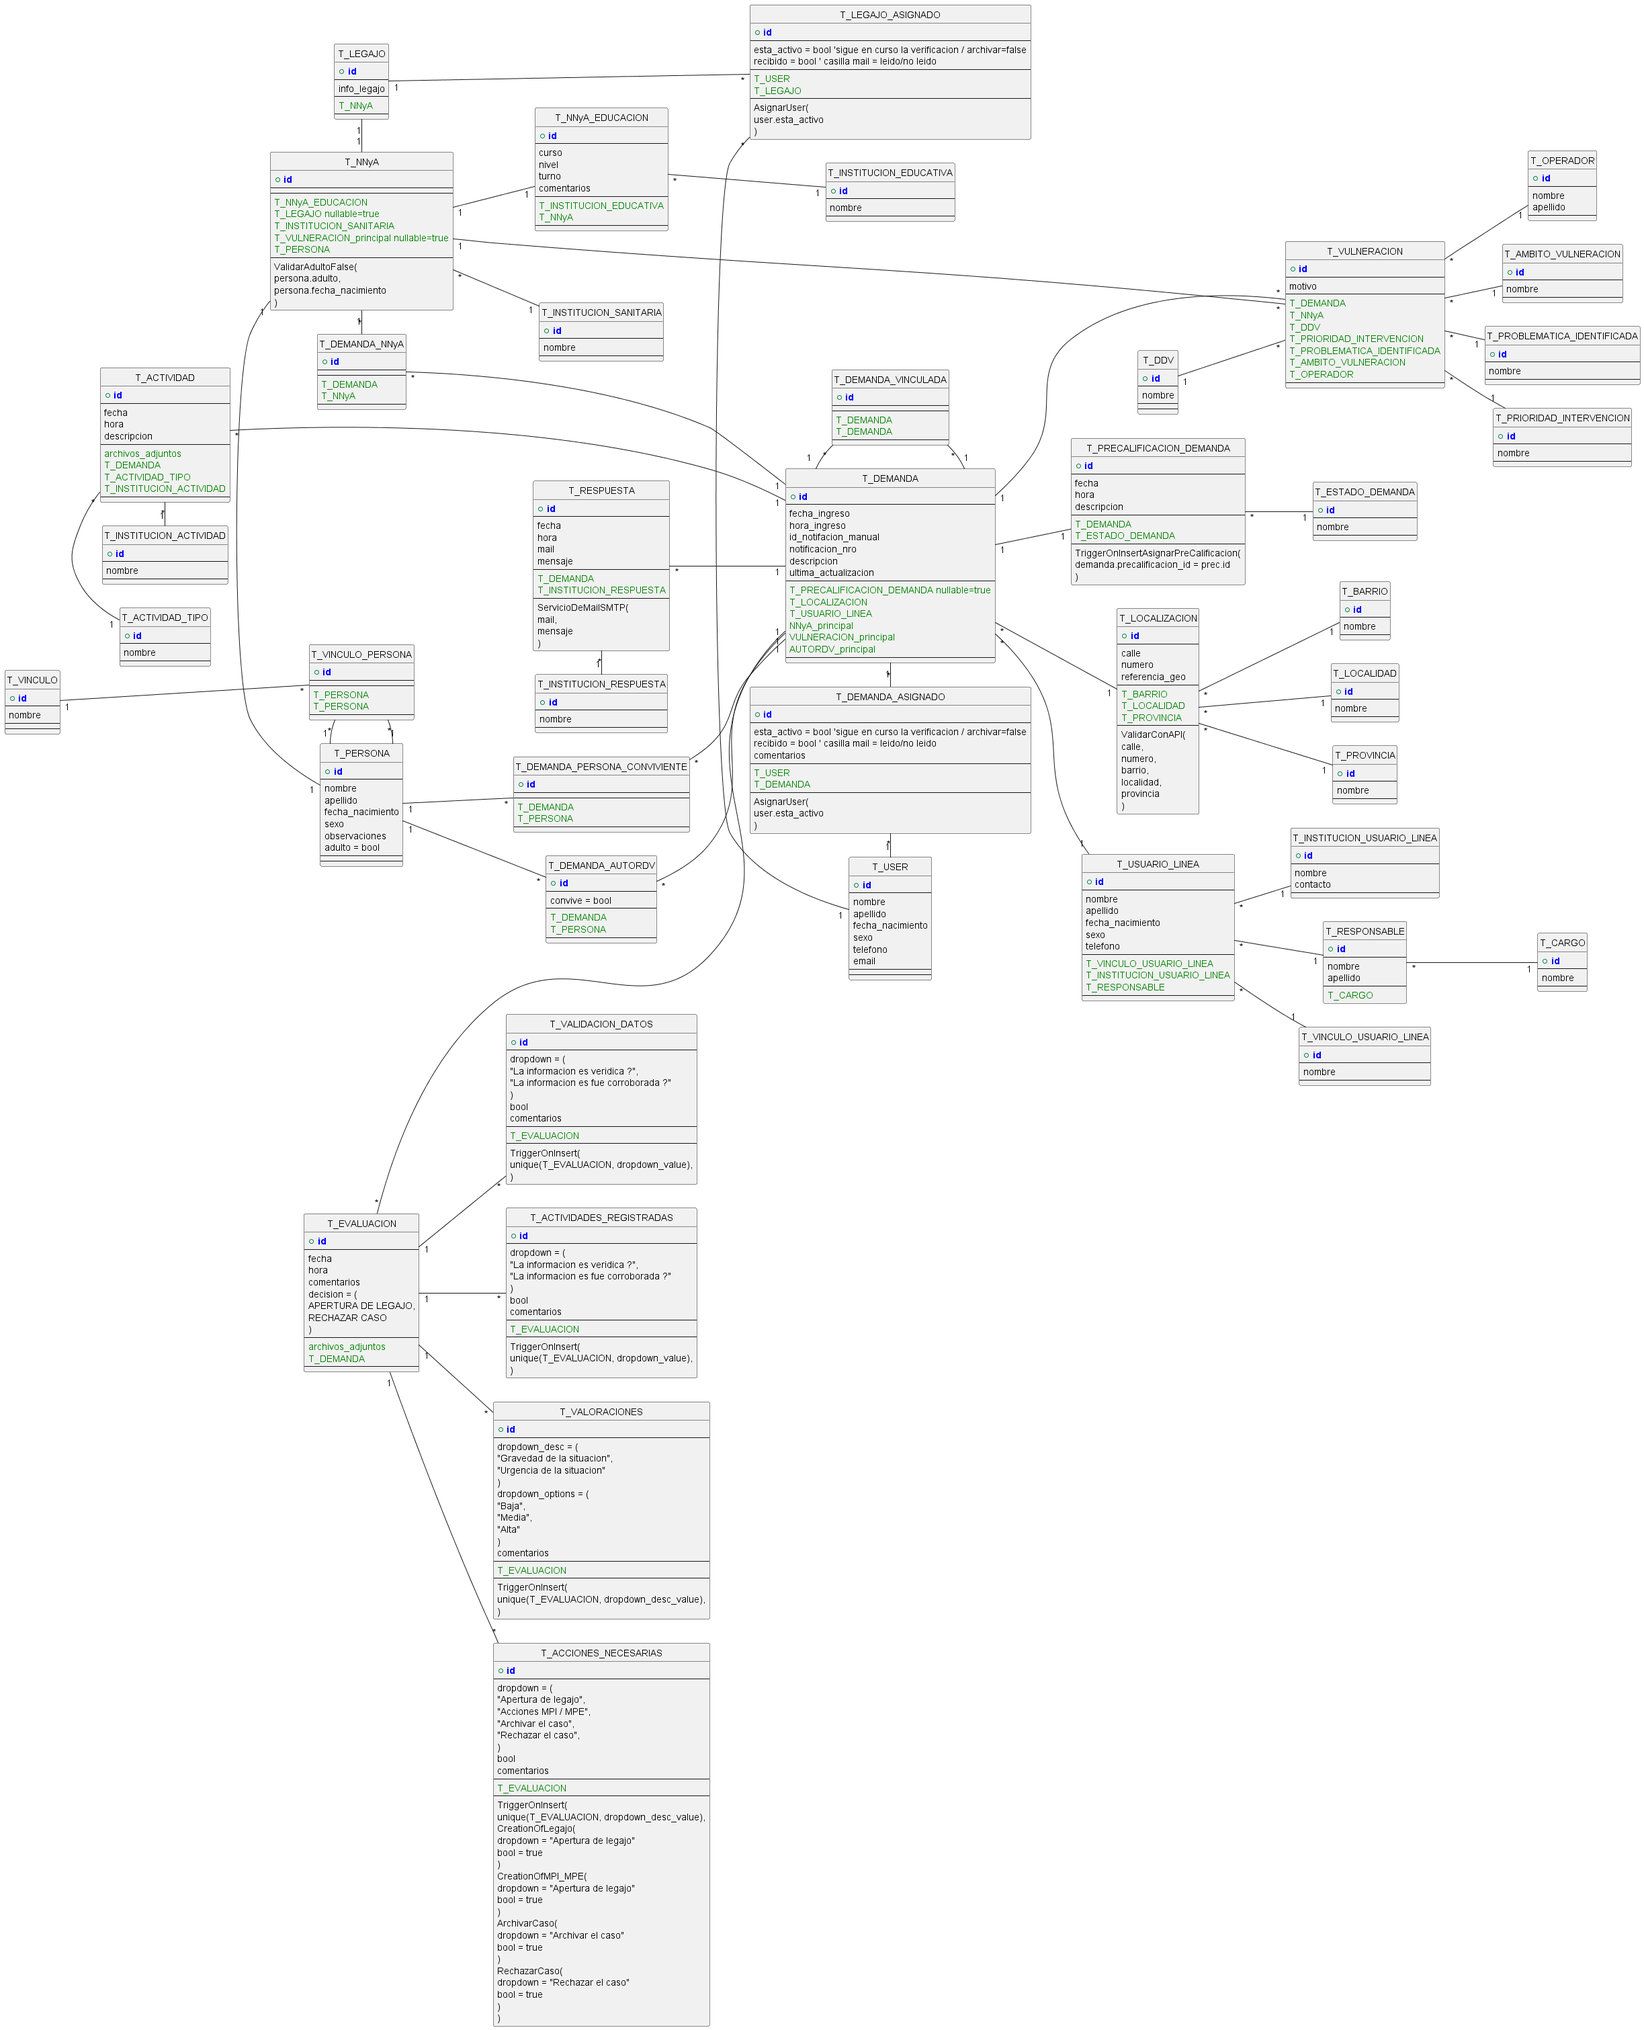
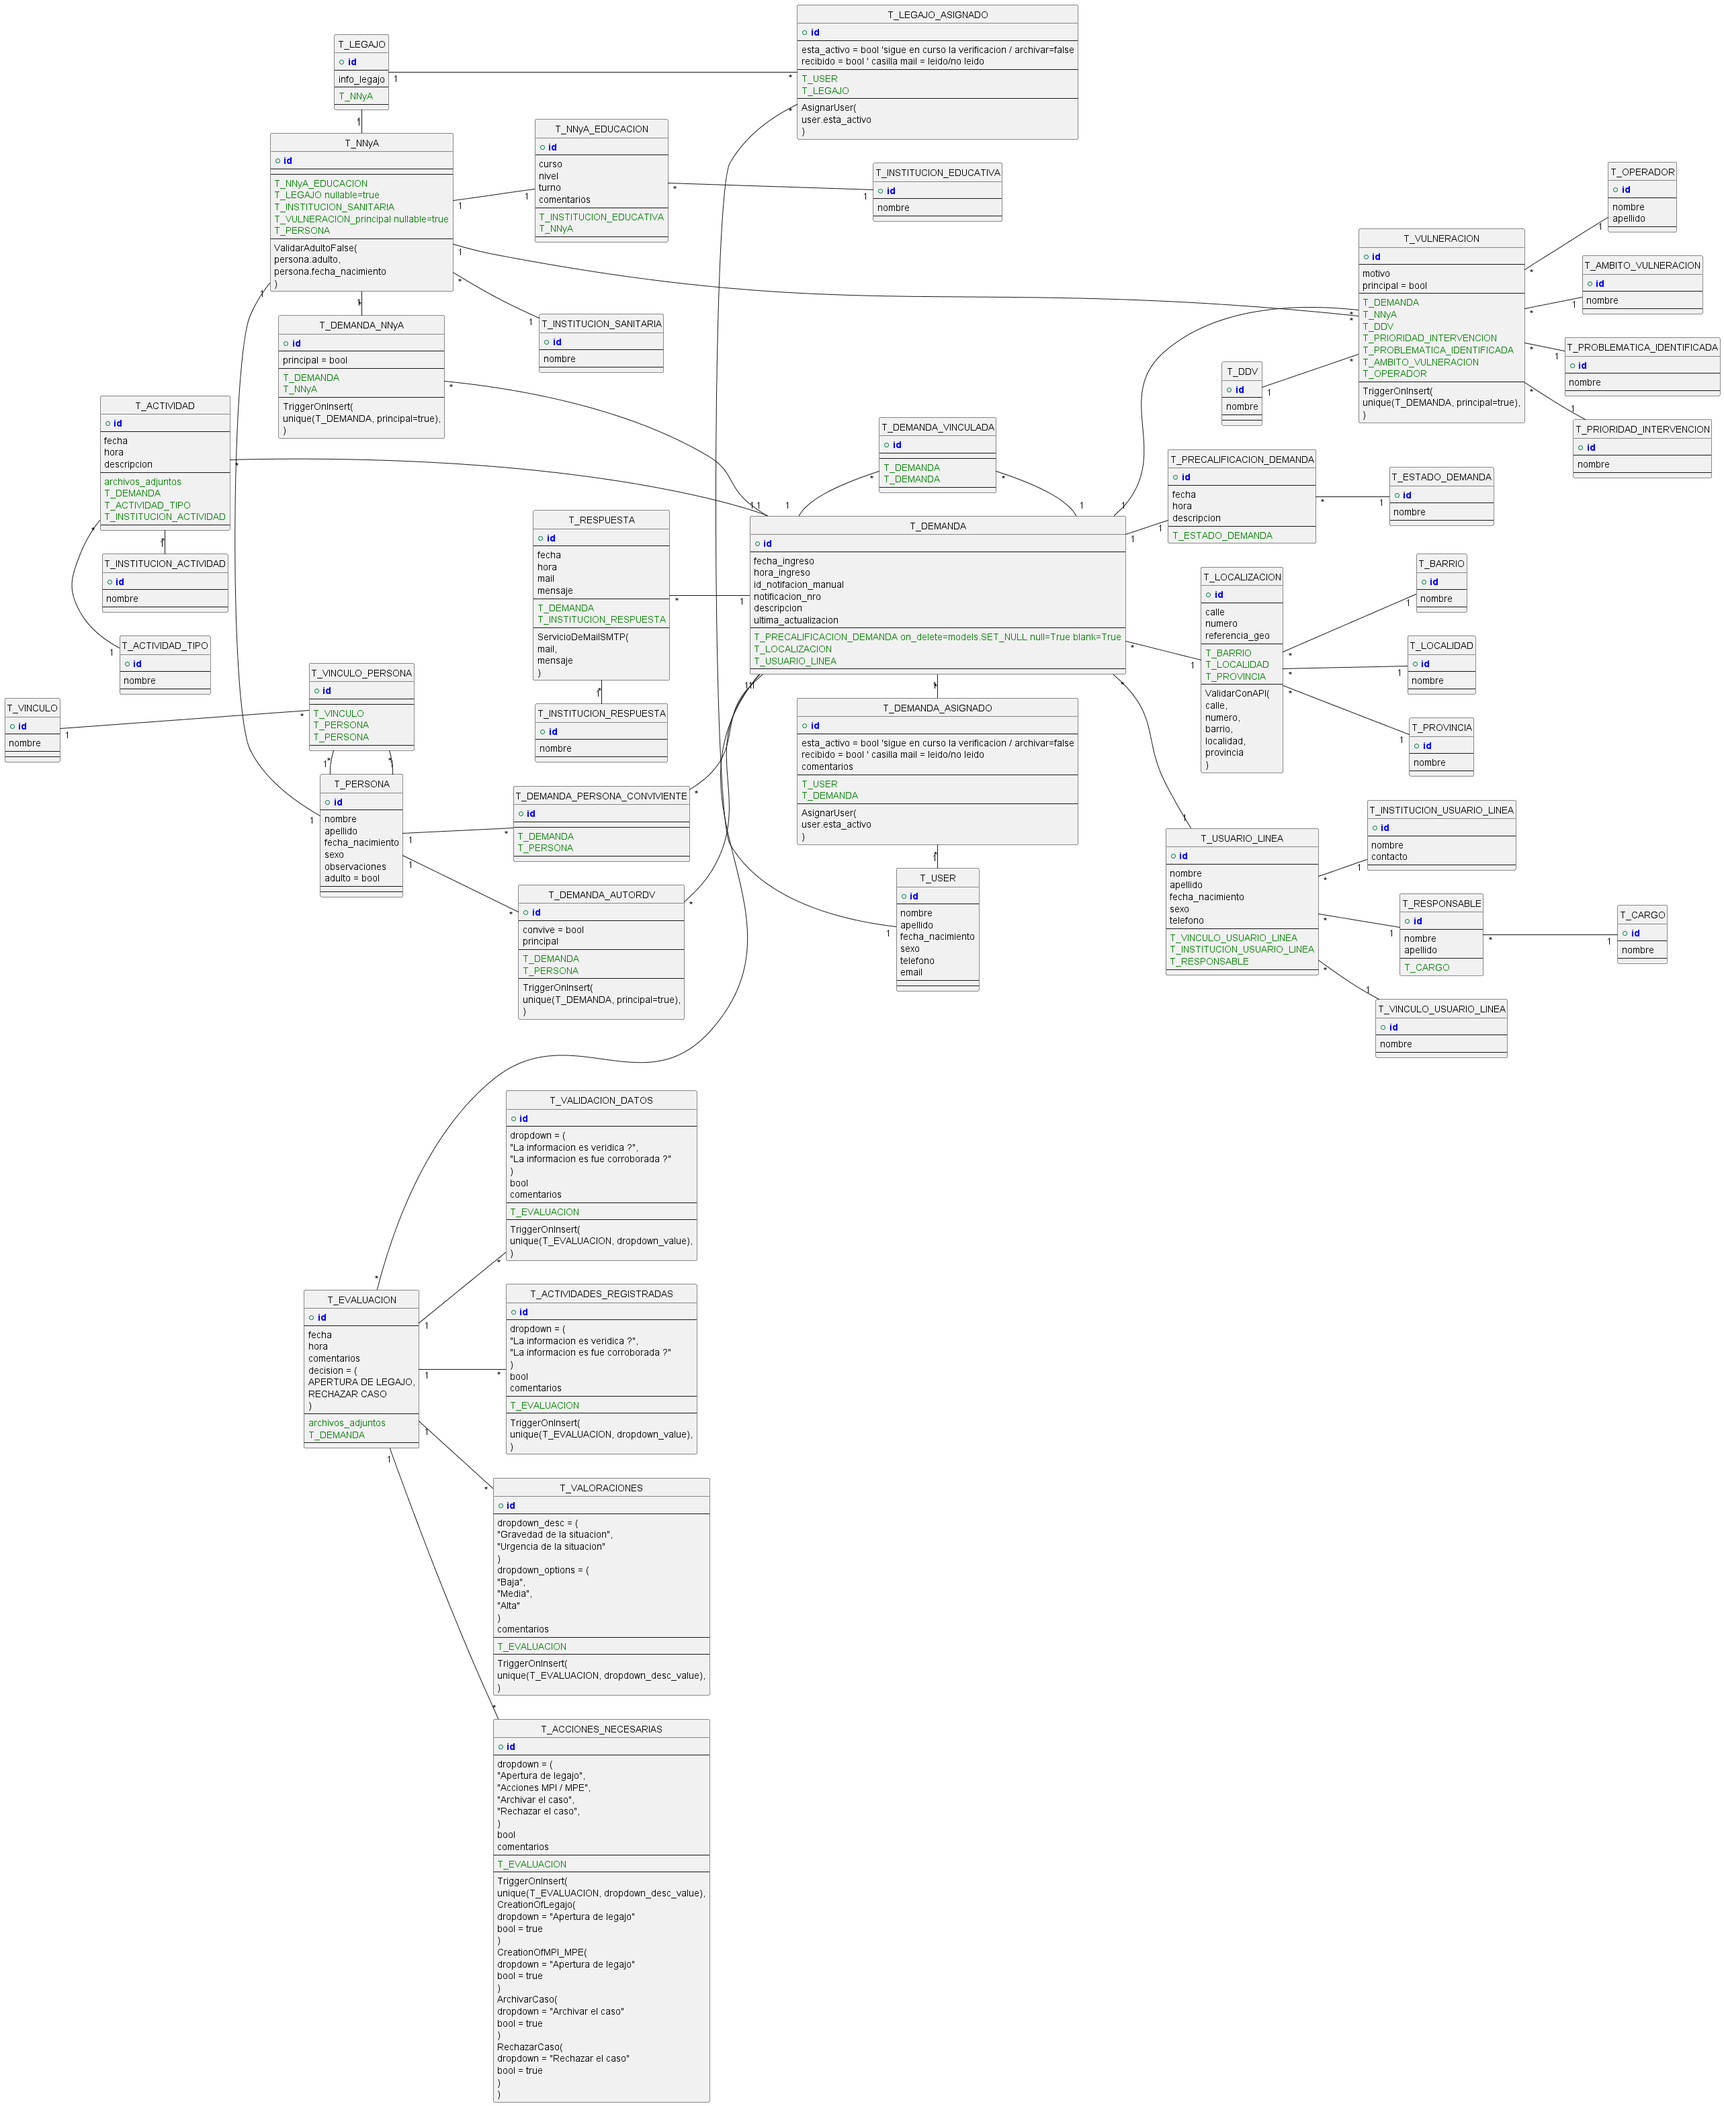
models update + diagram update

diff --git a/runna/infrastructure/models.py b/runna/infrastructure/models.py
@@ -20,13 +20,13 @@ class Provincia(models.Model):
 
 class Localidad(models.Model):
     nombre = models.CharField(max_length=100)
-    provincia = models.ForeignKey(Provincia, on_delete=models.CASCADE)
+    provincia = models.ForeignKey('Provincia', on_delete=models.CASCADE)
 
     history = HistoricalRecords()
 
 class Barrio(models.Model):
     nombre = models.CharField(max_length=100)
-    localidad = models.ForeignKey(Localidad, on_delete=models.CASCADE)
+    localidad = models.ForeignKey('Localidad', on_delete=models.CASCADE)
 
     history = HistoricalRecords()
 
@@ -50,7 +50,7 @@ class VinculoUsuarioLinea(models.Model):
 class Responsable(models.Model):
     nombre = models.CharField(max_length=100)
     apellido = models.CharField(max_length=100)
-    cargo = models.ForeignKey(Cargo, on_delete=models.CASCADE)
+    cargo = models.ForeignKey('Cargo', on_delete=models.CASCADE)
 
     history = HistoricalRecords()
 
@@ -58,11 +58,11 @@ class UsuarioLinea(models.Model):
     nombre = models.CharField(max_length=100)
     apellido = models.CharField(max_length=100)
     fecha_nacimiento = models.DateField()
-    sexo = models.CharField(max_length=10)
+    sexo = models.CharField(max_length=10, choices=[('M', 'Male'), ('F', 'Female')])
     telefono = models.CharField(max_length=20)
-    vinculo = models.ForeignKey(VinculoUsuarioLinea, on_delete=models.CASCADE)
-    institucion = models.ForeignKey(InstitucionUsuarioLinea, on_delete=models.CASCADE)
-    responsable = models.ForeignKey(Responsable, on_delete=models.CASCADE)
+    vinculo = models.ForeignKey('VinculoUsuarioLinea', on_delete=models.CASCADE)
+    institucion = models.ForeignKey('InstitucionUsuarioLinea', on_delete=models.CASCADE)
+    responsable = models.ForeignKey('Responsable', on_delete=models.CASCADE)
 
     history = HistoricalRecords()
 
@@ -71,7 +71,7 @@ class Localizacion(models.Model):
     calle = models.CharField(max_length=100)
     numero = models.CharField(max_length=10)
     referencia_geo = models.TextField()
-    barrio = models.ForeignKey(Barrio, on_delete=models.CASCADE)
+    barrio = models.ForeignKey('Barrio', on_delete=models.CASCADE)
 
     history = HistoricalRecords()
 
@@ -85,7 +85,7 @@ class PreCalificacionDemanda(models.Model):
     fecha = models.DateField()
     hora = models.TimeField()
     descripcion = models.TextField()
-    estado = models.ForeignKey(EstadoDemanda, on_delete=models.CASCADE)
+    estado = models.ForeignKey('EstadoDemanda', on_delete=models.CASCADE)
 
     history = HistoricalRecords()
 
@@ -97,10 +97,10 @@ class Demanda(models.Model):
     descripcion = models.TextField()
     ultima_actualizacion = models.DateTimeField(auto_now=True)
     precalificacion = models.OneToOneField(
-        PreCalificacionDemanda, on_delete=models.SET_NULL, null=True, blank=True
+        'PreCalificacionDemanda', on_delete=models.SET_NULL, null=True, blank=True
     )
-    localizacion = models.ForeignKey(Localizacion, on_delete=models.CASCADE)
-    usuario_linea = models.ForeignKey(UsuarioLinea, on_delete=models.CASCADE)
+    localizacion = models.ForeignKey('Localizacion', on_delete=models.CASCADE)
+    usuario_linea = models.ForeignKey('UsuarioLinea', on_delete=models.CASCADE)
 
     history = HistoricalRecords()
 
@@ -109,7 +109,7 @@ class DemandaAsignado(models.Model):
     recibido = models.BooleanField(default=False)
     comentarios = models.TextField(null=True, blank=True)
     demanda = models.ForeignKey(Demanda, on_delete=models.CASCADE)
-    user = models.ForeignKey(CustomUser, on_delete=models.CASCADE)
+    user = models.ForeignKey('CustomUser', on_delete=models.CASCADE)
 
     history = HistoricalRecords()
 
@@ -143,12 +143,13 @@ class Operador(models.Model):
 class Vulneracion(models.Model):
     motivo = models.TextField()
     principal = models.BooleanField()
-    demanda = models.ForeignKey(Demanda, on_delete=models.CASCADE)
-    operador = models.ForeignKey(Operador, on_delete=models.CASCADE)
-    prioridad_intervencion = models.ForeignKey(PrioridadIntervencion, on_delete=models.CASCADE)
-    problematica_identificada = models.ForeignKey(ProblematicaIdentificada, on_delete=models.CASCADE)
-    ambito_vulneracion = models.ForeignKey(AmbitoVulneracion, on_delete=models.CASCADE)
-    ddv = models.ForeignKey(DDV, on_delete=models.CASCADE)
+    demanda = models.ForeignKey('Demanda', on_delete=models.CASCADE)
+    nnya = models.ForeignKey('NNyA', on_delete=models.CASCADE)
+    operador = models.ForeignKey('Operador', on_delete=models.CASCADE)
+    prioridad_intervencion = models.ForeignKey('PrioridadIntervencion', on_delete=models.CASCADE)
+    problematica_identificada = models.ForeignKey('ProblematicaIdentificada', on_delete=models.CASCADE)
+    ambito_vulneracion = models.ForeignKey('AmbitoVulneracion', on_delete=models.CASCADE)
+    ddv = models.ForeignKey('DDV', on_delete=models.CASCADE)
 
     history = HistoricalRecords()
 
@@ -157,3 +158,222 @@ class DemandaVinculada(models.Model):
     vinculacion = models.ForeignKey(Demanda, related_name='demandas', on_delete=models.CASCADE)
 
     history = HistoricalRecords()
+
+class InstitucionSanitaria(models.Model):
+    nombre = models.CharField(max_length=100)
+
+    history = HistoricalRecords()
+
+class NNyA(models.Model):
+    persona = models.OneToOneField('Persona', on_delete=models.CASCADE)
+    educacion = models.OneToOneField(
+        'NNyAEducacion', on_delete=models.SET_NULL, null=True, blank=True
+    )
+    institucion_sanitaria = models.ForeignKey('InstitucionSanitaria', on_delete=models.CASCADE)
+
+    history = HistoricalRecords()
+
+class Persona(models.Model):
+    nombre = models.CharField(max_length=100)
+    apellido = models.CharField(max_length=100)
+    fecha_nacimiento = models.DateField()
+    sexo = models.CharField(max_length=10, choices=[('M', 'Male'), ('F', 'Female')])
+    observaciones = models.TextField(blank=True)
+    adulto = models.BooleanField(default=False)
+
+    history = HistoricalRecords()
+
+class InstitucionEducativa(models.Model):
+    nombre = models.CharField(max_length=100)
+
+    history = HistoricalRecords()
+
+class NNyAEducacion(models.Model):
+    curso = models.CharField(max_length=50)
+    nivel = models.CharField(max_length=50)
+    turno = models.CharField(max_length=50)
+    comentarios = models.TextField(blank=True)
+    institucion_educativa = models.ForeignKey('InstitucionEducativa', on_delete=models.CASCADE)
+
+    history = HistoricalRecords()
+
+class DemandaPersonaConviviente(models.Model):
+    demanda = models.ForeignKey('Demanda', on_delete=models.CASCADE)
+    persona = models.ForeignKey('Persona', on_delete=models.CASCADE)
+
+    history = HistoricalRecords()
+
+class Vinculo(models.Model):
+    nombre = models.CharField(max_length=100)
+
+    history = HistoricalRecords()
+
+class VinculoPersona(models.Model):
+    persona1 = models.ForeignKey('Persona', on_delete=models.CASCADE, related_name='persona1')
+    persona2 = models.ForeignKey('Persona', on_delete=models.CASCADE, related_name='persona2')
+    vinculo = models.ForeignKey('Vinculo', on_delete=models.CASCADE)
+
+    history = HistoricalRecords()
+
+class DemandaAutorDV(models.Model):
+    demanda = models.ForeignKey('Demanda', on_delete=models.CASCADE)
+    persona = models.ForeignKey('Persona', on_delete=models.CASCADE)
+    convive = models.BooleanField()
+    principal = models.BooleanField()
+
+    history = HistoricalRecords()
+
+class DemandaNNyA(models.Model):
+    demanda = models.ForeignKey('Demanda', on_delete=models.CASCADE)
+    nnya = models.ForeignKey('NNyA', on_delete=models.CASCADE)
+    principal = models.BooleanField()
+
+    history = HistoricalRecords()
+
+class Legajo(models.Model):
+    info_legajo = models.TextField()
+    nnya = models.OneToOneField('NNyA', on_delete=models.CASCADE)
+
+    history = HistoricalRecords()
+
+class LegajoAsignado(models.Model):
+    legajo = models.ForeignKey('Legajo', on_delete=models.CASCADE)
+    user = models.ForeignKey('CustomUser', on_delete=models.CASCADE)
+    esta_activo = models.BooleanField(default=True)
+    recibido = models.BooleanField(default=False)
+
+    history = HistoricalRecords()
+
+class ActividadTipo(models.Model):
+    nombre = models.CharField(max_length=100)
+
+    history = HistoricalRecords()
+
+class InstitucionActividad(models.Model):
+    nombre = models.CharField(max_length=100)
+
+    history = HistoricalRecords()
+
+class Actividad(models.Model):
+    fecha = models.DateField()
+    hora = models.TimeField()
+    descripcion = models.TextField()
+    demanda = models.ForeignKey('Demanda', on_delete=models.CASCADE)
+    actividad_tipo = models.ForeignKey('ActividadTipo', on_delete=models.CASCADE)
+    institucion_actividad = models.ForeignKey('InstitucionActividad', on_delete=models.CASCADE)
+
+    history = HistoricalRecords()
+
+class InstitucionRespuesta(models.Model):
+    nombre = models.CharField(max_length=100)
+
+    history = HistoricalRecords()
+
+class Respuesta(models.Model):
+    fecha = models.DateField()
+    hora = models.TimeField()
+    mail = models.EmailField()
+    mensaje = models.TextField()
+    demanda = models.ForeignKey('Demanda', on_delete=models.CASCADE)
+    institucion_respuesta = models.ForeignKey('InstitucionRespuesta', on_delete=models.CASCADE)
+
+    history = HistoricalRecords()
+
+class Evaluacion(models.Model):
+    fecha = models.DateField()
+    hora = models.TimeField()
+    comentarios = models.TextField()
+    decision = models.CharField(max_length=50, choices=[('APERTURA DE LEGAJO', 'Apertura'), ('RECHAZAR CASO', 'Rechazar')])
+    demanda = models.ForeignKey('Demanda', on_delete=models.CASCADE)
+
+    history = HistoricalRecords()
+
+class ValidacionDatos(models.Model):
+    dropdown = models.CharField(
+        max_length=100, 
+        choices=[
+            ("La informacion es veridica ?", "Veridica"),
+            ("La informacion es fue corroborada ?", "Corroborada")
+        ]
+    )
+    bool_value = models.BooleanField()
+    comentarios = models.TextField(blank=True)
+    evaluacion = models.ForeignKey('Evaluacion', on_delete=models.CASCADE)
+
+    class Meta:
+        unique_together = ('evaluacion', 'dropdown')
+
+    history = HistoricalRecords()
+
+class ActividadesRegistradas(models.Model):
+    dropdown = models.CharField(
+        max_length=100, 
+        choices=[
+            ("La informacion es veridica ?", "Veridica"),
+            ("La informacion es fue corroborada ?", "Corroborada")
+        ]
+    )
+    bool_value = models.BooleanField()
+    comentarios = models.TextField(blank=True)
+    evaluacion = models.ForeignKey('Evaluacion', on_delete=models.CASCADE)
+
+    class Meta:
+        unique_together = ('evaluacion', 'dropdown')
+
+    history = HistoricalRecords()
+
+class Valoraciones(models.Model):
+    dropdown_desc = models.CharField(
+        max_length=100,
+        choices=[
+            ("Gravedad de la situacion", "Gravedad"),
+            ("Urgencia de la situacion", "Urgencia")
+        ]
+    )
+    dropdown_options = models.CharField(
+        max_length=50,
+        choices=[("Baja", "Baja"), ("Media", "Media"), ("Alta", "Alta")]
+    )
+    comentarios = models.TextField(blank=True)
+    evaluacion = models.ForeignKey('Evaluacion', on_delete=models.CASCADE)
+
+    class Meta:
+        unique_together = ('evaluacion', 'dropdown_desc')
+
+    history = HistoricalRecords()
+
+class AccionesNecesarias(models.Model):
+    dropdown = models.CharField(
+        max_length=100,
+        choices=[
+            ("Apertura de legajo", "Apertura"),
+            ("Acciones MPI / MPE", "MPI/MPE"),
+            ("Archivar el caso", "Archivar"),
+            ("Rechazar el caso", "Rechazar")
+        ]
+    )
+    bool_value = models.BooleanField()
+    comentarios = models.TextField(blank=True)
+    evaluacion = models.ForeignKey('Evaluacion', on_delete=models.CASCADE)
+
+    class Meta:
+        unique_together = ('evaluacion', 'dropdown')
+
+    history = HistoricalRecords()
+
+    # Signals for Custom Logic Based on Dropdown Choice
+    @staticmethod
+    def post_save_handler(sender, instance, **kwargs):
+        if instance.dropdown == "Apertura de legajo" and instance.bool_value:
+            # Custom logic for legajo creation
+            print("Legajo creation triggered")
+        elif instance.dropdown == "Archivar el caso" and instance.bool_value:
+            # Logic for archiving case
+            print("Case archived")
+        elif instance.dropdown == "Rechazar el caso" and instance.bool_value:
+            # Logic for rejecting case
+            print("Case rejected")
+
+# Connect post_save signal
+from django.db.models.signals import post_save
+post_save.connect(AccionesNecesarias.post_save_handler, sender=AccionesNecesarias)
